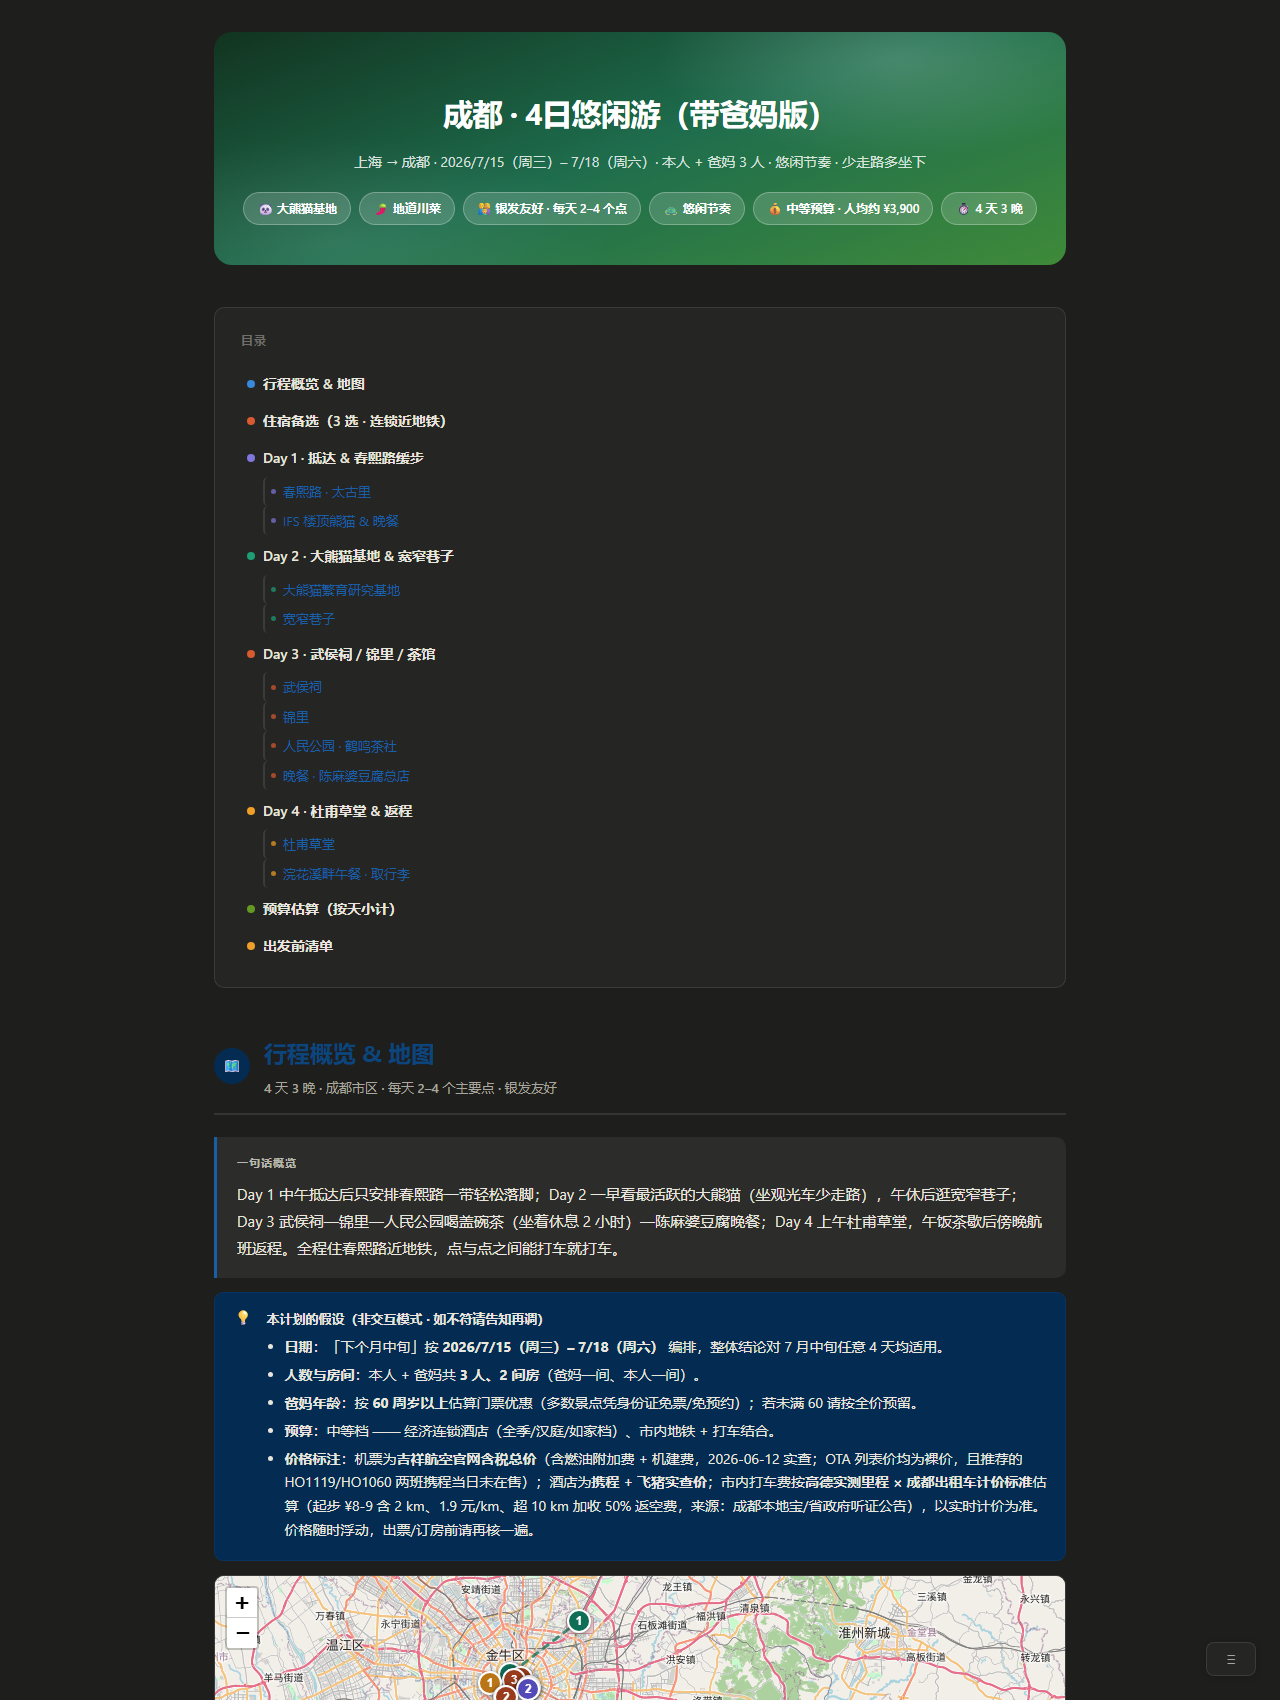
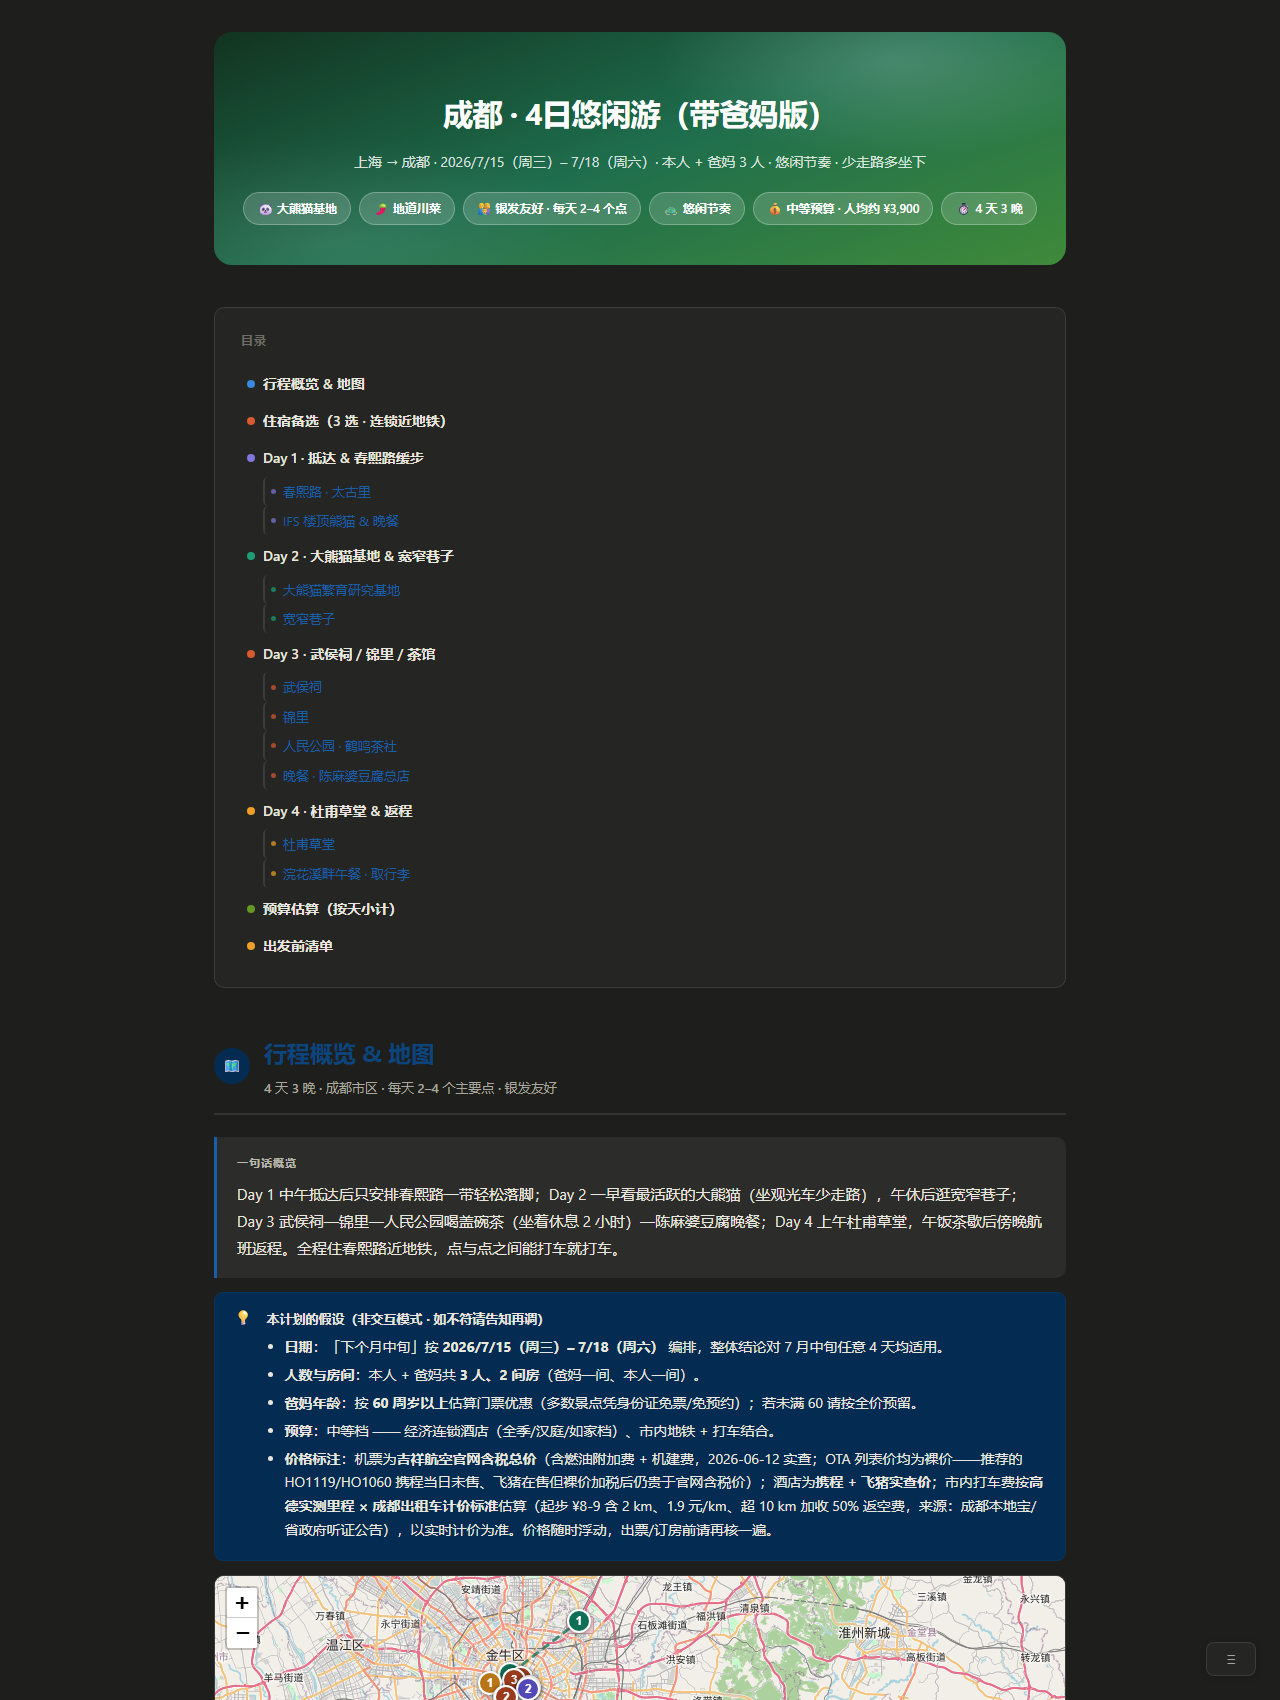
飞猪机票 web 实为可用: 缺参误判纠正, URL 模板沉淀, 比价补飞猪列
User correction: fliggy's flight web search works — the earlier
'入参校验失败' was my own malformed URL (missing IATA city codes and
depDate), not a dead channel. Verified with the user's URL pattern:

- research-playbook.md: fliggy entry rewritten — flights AND hotels
  usable on web; full-parameter URL templates recorded so the mistake
  is structurally unrepeatable; list prices are bare fares (the page
  header itself says 不含税费).
- Example price-compare now carries fliggy quotes for every leg:
  HO1119 ¥1,120 / HO1060 ¥980 / HO1039 ¥770 / HO1098 ¥980 bare —
  all above Juneyao's tax-inclusive site prices once taxes are added,
  so the recommendation stands, but '官网独家' wording was wrong
  (ctrip didn't sell them; fliggy did) and is corrected everywhere.
  Added fliggy-only alternatives (MU9197 08:00 虹桥→天府 ¥1,000,
  MU9186 18:15→20:40 虹桥) as bench options.
- README example notes + v0.4 changelog updated, including the
  admission that the 'fliggy flights are App-only' claim from this
  morning was a mis-diagnosis corrected by the user's own test.
- check_html.py passes; screenshots regenerated.

Changed region(s): [[0.2188, 0.8418, 0.8125, 0.9041]]

diff --git a/examples/成都4日游行程.html b/examples/成都4日游行程.html
@@ -445,7 +445,7 @@ details[open] summary::before{transform:rotate(90deg);}
         <li><strong>人数与房间</strong>：本人 + 爸妈共 <strong>3 人、2 间房</strong>（爸妈一间、本人一间）。</li>
         <li><strong>爸妈年龄</strong>：按 <strong>60 周岁以上</strong>估算门票优惠（多数景点凭身份证免票/免预约）；若未满 60 请按全价预留。</li>
         <li><strong>预算</strong>：中等档 —— 经济连锁酒店（全季/汉庭/如家档）、市内地铁 + 打车结合。</li>
-        <li><strong>价格标注</strong>：机票为<strong>吉祥航空官网含税总价</strong>（含燃油附加费 + 机建费，2026-06-12 实查；OTA 列表价均为裸价，且推荐的 HO1119/HO1060 两班携程当日未在售）；酒店为<strong>携程 + 飞猪实查价</strong>；市内打车费按<strong>高德实测里程 × 成都出租车计价标准</strong>估算（起步 ¥8-9 含 2 km、1.9 元/km、超 10 km 加收 50% 返空费，来源：成都本地宝/省政府听证公告），以实时计价为准。价格随时浮动，出票/订房前请再核一遍。</li>
+        <li><strong>价格标注</strong>：机票为<strong>吉祥航空官网含税总价</strong>（含燃油附加费 + 机建费，2026-06-12 实查；OTA 列表价均为裸价——推荐的 HO1119/HO1060 携程当日未售、飞猪在售但裸价加税后仍贵于官网含税价）；酒店为<strong>携程 + 飞猪实查价</strong>；市内打车费按<strong>高德实测里程 × 成都出租车计价标准</strong>估算（起步 ¥8-9 含 2 km、1.9 元/km、超 10 km 加收 50% 返空费，来源：成都本地宝/省政府听证公告），以实时计价为准。价格随时浮动，出票/订房前请再核一遍。</li>
       </ul>
     </div>
   </div>
@@ -595,9 +595,10 @@ details[open] summary::before{transform:rotate(90deg);}
     </div>
     <div class="price-compare">
       <div class="pc-title">多平台实查 · 2026-06-12 午后 · 官网价为含税总价，OTA 为裸价（燃油/机建另计）</div>
-      <div class="pc-row cheapest"><span class="pc-plat"><a class="btn-link" style="padding:1px 8px" href="https://www.juneyaoair.com/flightQuery?depCity=%E4%B8%8A%E6%B5%B7-SHA&arrCity=%E6%88%90%E9%83%BD-CTU&depDate=2026-07-15&routeType=OW" target="_blank" rel="noopener">吉祥官网 · HO1119 直达</a></span><span class="pc-price">¥1,150 含税 · 此班携程当日未在售，官网独家</span></div>
-      <div class="pc-row"><span class="pc-plat">省钱选 HO1039（经停）</span><span class="pc-price">官网 ¥800 含税 ✓ ／ 携程 ¥790 裸价（加税后高于官网）</span></div>
-      <div class="pc-row"><span class="pc-plat">当日最低（太晚，不适合带爸妈）</span><span class="pc-price">春秋 9C6101 20:50→23:55 · 携程 ¥627 裸价</span></div>
+      <div class="pc-row cheapest"><span class="pc-plat"><a class="btn-link" style="padding:1px 8px" href="https://www.juneyaoair.com/flightQuery?depCity=%E4%B8%8A%E6%B5%B7-SHA&arrCity=%E6%88%90%E9%83%BD-CTU&depDate=2026-07-15&routeType=OW" target="_blank" rel="noopener">吉祥官网 · HO1119 直达</a></span><span class="pc-price">¥1,150 含税 ✓（携程未售；<a class="btn-link" style="padding:1px 8px" href="https://sjipiao.fliggy.com/flight_search_result.htm?tripType=0&depCity=SHA&arrCity=CTU&depDate=2026-07-15&depCityName=%E4%B8%8A%E6%B5%B7&arrCityName=%E6%88%90%E9%83%BD" target="_blank" rel="noopener">飞猪</a> ¥1,120 裸价，加税后≈¥1,190 仍贵于官网）</span></div>
+      <div class="pc-row"><span class="pc-plat">同时段备选 · 东航 MU9197 08:00 虹桥 → 10:55 天府</span><span class="pc-price">飞猪 ¥1,000 裸价（C919 共享 · 虹桥出发更近市区可换）</span></div>
+      <div class="pc-row"><span class="pc-plat">省钱选 HO1039（经停）</span><span class="pc-price">官网 ¥800 含税 ✓ ／ 飞猪 ¥770 · 携程 ¥790 裸价（加税后均高于官网）</span></div>
+      <div class="pc-row"><span class="pc-plat">当日最低（太晚，不适合带爸妈）</span><span class="pc-price">春秋 9C6101 20:50→23:55 · 携程 ¥627 / 飞猪 ¥630 裸价</span></div>
     </div>
   </div>
 
@@ -916,9 +917,10 @@ details[open] summary::before{transform:rotate(90deg);}
     </div>
     <div class="price-compare">
       <div class="pc-title">多平台实查 · 2026-06-12 午后 · 官网价为含税总价，OTA 为裸价（燃油/机建另计）</div>
-      <div class="pc-row cheapest"><span class="pc-plat"><a class="btn-link" style="padding:1px 8px" href="https://www.juneyaoair.com/flightQuery?depCity=%E6%88%90%E9%83%BD-CTU&arrCity=%E4%B8%8A%E6%B5%B7-SHA&depDate=2026-07-18&routeType=OW" target="_blank" rel="noopener">吉祥官网 · HO1060 直达虹桥</a></span><span class="pc-price">¥1,010 含税 · 此班携程当日未在售，官网独家</span></div>
-      <div class="pc-row"><span class="pc-plat">备选 HO1098 14:30 → 17:15 浦东</span><span class="pc-price">官网 ¥1,010 含税 ✓ ／ 携程 ¥1,000 裸价（加税后高于官网）· 上午需压缩</span></div>
-      <div class="pc-row"><span class="pc-plat">更省：春秋 9C8820 20:10→22:50 虹桥</span><span class="pc-price">携程 ¥953 裸价（剩3张）· 廉航，托运行李另购，到家近午夜</span></div>
+      <div class="pc-row cheapest"><span class="pc-plat"><a class="btn-link" style="padding:1px 8px" href="https://www.juneyaoair.com/flightQuery?depCity=%E6%88%90%E9%83%BD-CTU&arrCity=%E4%B8%8A%E6%B5%B7-SHA&depDate=2026-07-18&routeType=OW" target="_blank" rel="noopener">吉祥官网 · HO1060 直达虹桥</a></span><span class="pc-price">¥1,010 含税 ✓（携程未售；<a class="btn-link" style="padding:1px 8px" href="https://sjipiao.fliggy.com/flight_search_result.htm?tripType=0&depCity=CTU&arrCity=SHA&depDate=2026-07-18&depCityName=%E6%88%90%E9%83%BD&arrCityName=%E4%B8%8A%E6%B5%B7" target="_blank" rel="noopener">飞猪</a> ¥980 裸价，加税后≈¥1,050 仍贵于官网）</span></div>
+      <div class="pc-row"><span class="pc-plat">备选 HO1098 14:30 → 17:15 浦东（上午需压缩）</span><span class="pc-price">官网 ¥1,010 含税 ✓ ／ 飞猪 ¥980 · 携程 ¥1,000 裸价</span></div>
+      <div class="pc-row"><span class="pc-plat">同时段备选 · 东航 MU9186 18:15 → 20:40 虹桥</span><span class="pc-price">飞猪 ¥1,378 裸价（比 HO1060 贵，仅作余票备胎）</span></div>
+      <div class="pc-row"><span class="pc-plat">更省：春秋 9C8820 20:10→22:50 虹桥</span><span class="pc-price">携程 ¥953 / 飞猪 ¥1,000 裸价（剩3张）· 廉航，托运行李另购，到家近午夜</span></div>
     </div>
   </div>
 
@@ -989,7 +991,7 @@ details[open] summary::before{transform:rotate(90deg);}
   <div class="card">
     <h3>必订 / 必办（按截止时间排序）</h3>
     <div class="checklist">
-      <label><input type="checkbox"><span>机票出票（实查推荐：去程 HO1119 08:10 浦东→11:25 天府 含税 ¥1,150 / 返程 HO1060 17:30 天府→20:10 虹桥 含税 ¥1,010——两班均为吉祥官网独家在售；进出城按 1h 车程预留；价格随时浮动，出票前再核）</span></label>
+      <label><input type="checkbox"><span>机票出票（实查推荐：去程 HO1119 08:10 浦东→11:25 天府 含税 ¥1,150 / 返程 HO1060 17:30 天府→20:10 虹桥 含税 ¥1,010——两班携程未售、官网含税价最优（飞猪在售但裸价加税后更贵）；进出城按 1h 车程预留；价格随时浮动，出票前再核）</span></label>
       <label><input type="checkbox"><span>酒店锁房 2 间 × 3 晚（7 月暑期旺季，提前 2–3 周；订前读「最新+低分」评论）</span></label>
       <label><input type="checkbox"><span>熊猫基地门票：开放预约首日（入园前 14 天）给自己约「上午场」；爸妈 60+ 免预约刷身份证</span></label>
       <label><input type="checkbox"><span>武侯祠门票：提前 14 天官网/公众号预约</span></label>

diff --git a/references/research-playbook.md b/references/research-playbook.md
@@ -24,7 +24,11 @@ are stale/indicative; for every air leg you must read **live** fares in a browse
    and **read** the fare:
    - 国内（**2026-06 实测平台真值表，省时间，别去碰已废的**）:
      - ✅ **携程** (`flights.ctrip.com` / `hotels.ctrip.com`) — 机票酒店免登录可读，台面价为裸价。
-     - ✅ **飞猪** — 可用；常要淘宝登录 → 走登录墙协议（停在登录页、攒批问用户）。
+     - ✅ **飞猪** — 机票/酒店 web 均可用（需淘宝登录态；连续查询可能触发验证码 → 走登录墙协议）。
+       **机票必须用带全参数的 URL**，缺 `depDate`/城市三字码会报「入参校验失败」（别误判成已废）。模板：
+       `https://sjipiao.fliggy.com/flight_search_result.htm?tripType=0&depCity=SHA&arrCity=CTU&depDate=YYYY-MM-DD&depCityName=上海&arrCityName=成都`
+       酒店：`https://hotel.fliggy.com/hotel_list3.htm?cityName=成都&checkIn=YYYY-MM-DD&checkOut=YYYY-MM-DD&keywords=酒店名`
+       列表价均为**裸价**（机票表头自标「不含税费」）。
      - ✅ **航司官网**（**必查**，东航/国航/南航实测可查价，吉祥/春秋等多数也可）— 有优惠券时可能比 OTA 低，
        且官网能读到**含税总价**（见下条）。
      - ✅ **高德地图** — 查不了酒店价格，但 **POI 评价真实可靠**（可作酒店评论信源），且路线规划给出

diff --git a/README.md b/README.md
@@ -44,7 +44,7 @@
 |---|---|---|
 | ![timeline](assets/timeline-desktop.png) | ![hotels](assets/hotels-desktop.png) | ![mobile](assets/mobile.png) |
 
-注意截图里的细节:机票价是**航司官网含税总价**(OTA 列表价都是不含燃油/机建的裸价,预算用它必然失真);推荐的两班直飞(HO1119/HO1060)**携程当日根本没在卖**,只有官网有——"航司官网必查"不是口号;市内打车费按**高德实测里程 × 成都出租车计价标准**估算并写明来源;查不到的数字(飞猪验证码墙后的那家)如实标「未读价」。实查还推翻了一串想当然:初稿推荐的一家如家分店在携程查无此店、「华住会会员价更低」实测是迷思、"上午没有直飞"是上一版漏读官网渠道的错误结论。这就是"查证型行程页"和"写出来的攻略"的区别。
+注意截图里的细节:机票价是**航司官网含税总价**(OTA 列表价都是不含燃油/机建的裸价,预算用它必然失真);推荐的两班直飞(HO1119/HO1060)**携程当日没在卖**,飞猪在卖但裸价加税后仍贵于官网含税价——"航司官网必查"不是口号;市内打车费按**高德实测里程 × 成都出租车计价标准**估算并写明来源;查不到的数字(飞猪验证码墙后的那家)如实标「未读价」。实查还推翻了一串想当然:初稿推荐的一家如家分店在携程查无此店、「华住会会员价更低」实测是迷思、"上午没有直飞"是上一版漏读官网渠道的错误结论。这就是"查证型行程页"和"写出来的攻略"的区别。
 
 **对照实验**(2 个中文用例,同 prompt 跑 with/without skill,[完整数据](evals/benchmark.md)):
 
@@ -130,7 +130,7 @@ python3 scripts/check_html.py <输出>.html      # macOS/Linux
 
 ## 更新记录
 
-- **2026-06-12 · v0.4** — 按真实用户反馈修三件事:① **平台真值表**进 playbook——可用:携程/飞猪/高德/航司官网;已废:去哪儿(下线)、美团(403)、同程艺龙(残废)、华住会官网(无价);「集团 App 会员价更低」实测为迷思,删除该说法。② **机票一律用航司官网含税总价**(OTA 裸价不含燃油/机建,直接进预算必然失真)——顺带发现吉祥官网独家在售两班更优直飞(HO1119/HO1060),携程当日未售,行程重排、预算修正 ¥10,220 → ¥11,600。③ **市内打车费禁止拍脑袋**:一律高德路线实测里程 × 公开计价标准,并写明来源;酒店评价新增高德作为真实性交叉信源。同时承认 v0.3 的「上午直飞不存在」是漏读官网渠道的错误结论。
+- **2026-06-12 · v0.4** — 按真实用户反馈修三件事:① **平台真值表**进 playbook——可用:携程/飞猪/高德/航司官网;已废:去哪儿(下线)、美团(403)、同程艺龙(残废)、华住会官网(无价);「集团 App 会员价更低」实测为迷思,删除该说法。② **机票一律用航司官网含税总价**(OTA 裸价不含燃油/机建,直接进预算必然失真)——顺带发现两班更优直飞(HO1119/HO1060):携程当日未售、飞猪在售但加税后贵于官网含税价,行程重排、预算修正 ¥10,220 → ¥11,600。③ **市内打车费禁止拍脑袋**:一律高德路线实测里程 × 公开计价标准,并写明来源;酒店评价新增高德作为真实性交叉信源。④ 飞猪机票 web 端可用但 **URL 必须带全参数**(城市三字码+depDate,缺参报"入参校验失败"),URL 模板已沉淀进 playbook——首查误判"仅 App 可用",经用户实测纠正。同时承认 v0.3 的「上午直飞不存在」是漏读官网渠道的错误结论。
 
 - **2026-06-12 · v0.3** — 旗舰示例升级为浏览器实查版:机票(携程+去哪儿同班次双价)、酒店(携程实价+实读点评区)全部带查询时间戳;实查纠正了三处编出来的假设——"上午直飞双流"不存在(在售直飞全落天府,行程按 HO1039/HO1058 重排)、全季店名与评分对错(4.6/3830条 → 实为 4.8/1243条)、一家如家分店查无此店(已换可订门店)。预算从 ¥8,000 修正为 ¥10,220(机票实价比估价高 47%)。读不到的价(需登录/仅 App)一律标「未核实」。
 - **2026-06-12 · v0.2** — 活体审计发现 4 次真实运行里住宿备选全部静默脱落、而校验器对此失明。修法:Step 5 改为不可跳过(已订住宿走 `data-hotels="user-booked"` 显式出口),校验器新增旅行组件检查(历史产物回放 4/4 翻转、零误报),并用一次完整 eval 重跑验证修复(一次过,3 张住宿卡落地)。